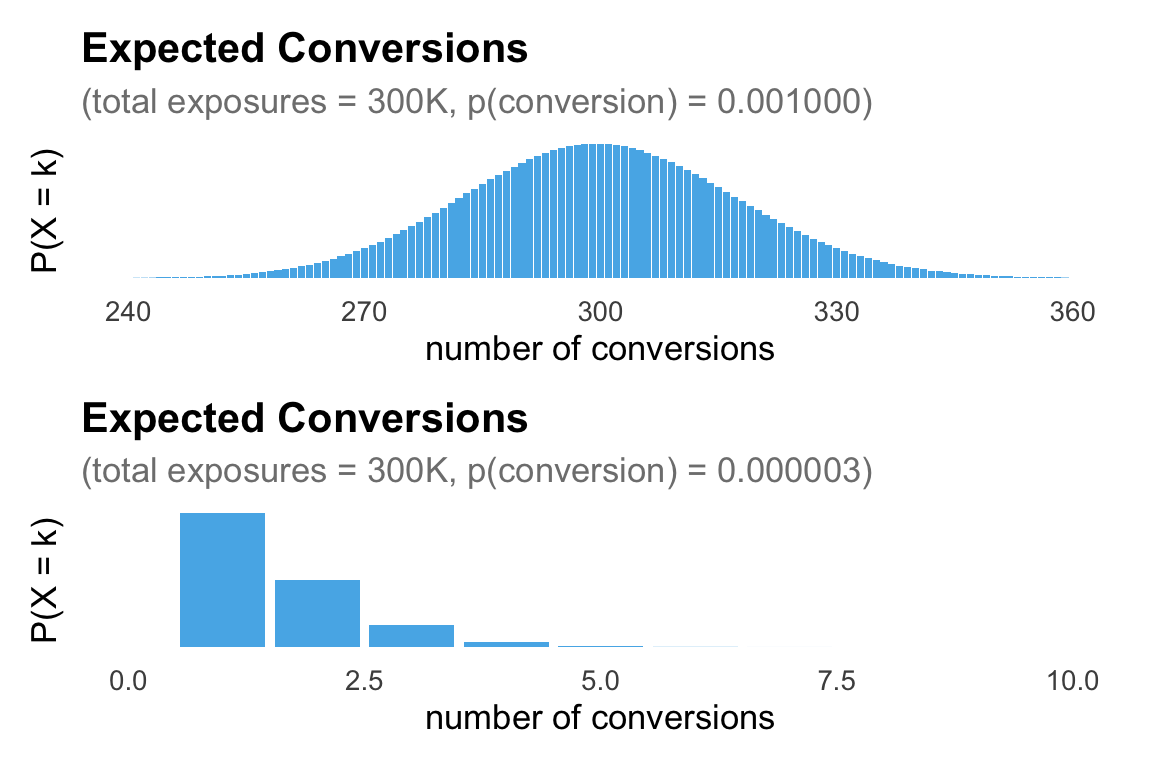
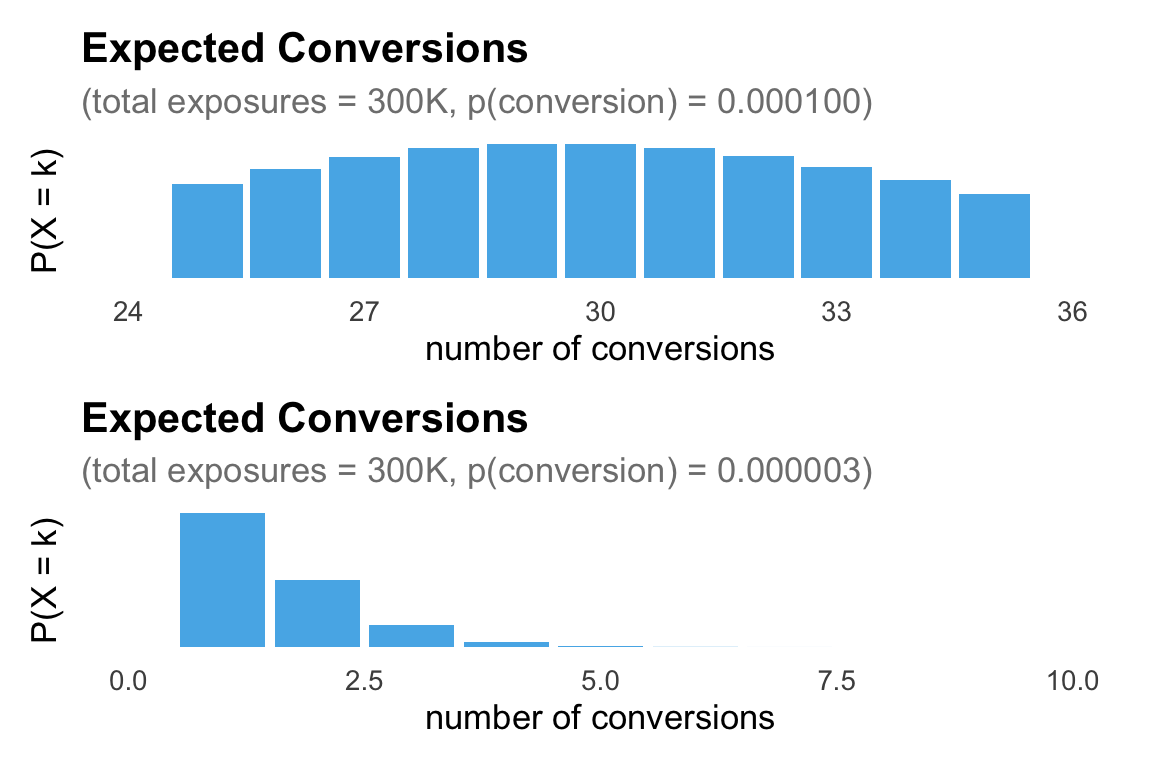
fixed extra 0 typo

diff --git a/docs/posts/2026-06-13-cpa/index.html b/docs/posts/2026-06-13-cpa/index.html
@@ -407,7 +407,7 @@ pre > code.sourceCode > span > a:first-child::before { text-decoration: underlin
 </figure>
 </div>
 <p>Say we spent $1,000 per day for 30 days and saw 0 conversions. When we think about CPA as a <strong>cost</strong> we might see the $1,000 in spend per day and 0 conversions and conclude that our CPA is probably higher than $1,000. It’s like the world’s worst store, we walked up to the till each day, paid $1,000, hoped that was more than the price-tag on a conversion, and left disappointed. But, when we think about CPA as a <strong>rate</strong> we see $1,000 worth off exposures <em>every day</em> over 30 days with 0 conversions, a <em>much</em> bleaker picture.</p>
-<p>Framed as a rate, what we saw was 300,000 exposures ($30,000) with 0 conversions. The cost per conversion is likely more than <em>$30,000</em> (not $1,000). If the CPA was $1,000 we should see a conversion every 10,000 exposures (see Figure 1, there’s ~99% chance we’ll get more than 240 conversions at a $1,000 CPA. Whereas at a <em>$30,000</em> CPA, we often see 0 or only a few conversions) or so, but across 300,000 exposures we actually saw 0.</p>
+<p>Framed as a rate, what we saw was 300,000 exposures ($30,000) with 0 conversions. The cost per conversion is likely more than <em>$30,000</em> (not $1,000). If the CPA was $1,000 we should see a conversion every 10,000 exposures (see Figure 1, there’s ~99% chance we’ll get more than 24 conversions at a $1,000 CPA. Whereas at a <em>$30,000</em> CPA, we often see 0 or only a few conversions) or so, but across 300,000 exposures we actually saw 0.</p>
 <div class="cell">
 <details class="code-fold">
 <summary>Code</summary>
@@ -441,7 +441,7 @@ pre > code.sourceCode > span > a:first-child::before { text-decoration: underlin
 <span id="cb1-28"><a href="#cb1-28" aria-hidden="true" tabindex="-1"></a>}</span>
 <span id="cb1-29"><a href="#cb1-29" aria-hidden="true" tabindex="-1"></a></span>
 <span id="cb1-30"><a href="#cb1-30" aria-hidden="true" tabindex="-1"></a><span class="co"># example call</span></span>
-<span id="cb1-31"><a href="#cb1-31" aria-hidden="true" tabindex="-1"></a>x <span class="ot">&lt;-</span> <span class="fu">plot_binomial</span>(<span class="at">n =</span> <span class="dv">300000</span>, <span class="at">p =</span> <span class="dv">1</span><span class="sc">/</span><span class="dv">1000</span>,<span class="dv">240</span>,<span class="dv">360</span>)</span>
+<span id="cb1-31"><a href="#cb1-31" aria-hidden="true" tabindex="-1"></a>x <span class="ot">&lt;-</span> <span class="fu">plot_binomial</span>(<span class="at">n =</span> <span class="dv">300000</span>, <span class="at">p =</span> <span class="dv">1</span><span class="sc">/</span><span class="dv">10000</span>,<span class="dv">24</span>,<span class="dv">36</span>)</span>
 <span id="cb1-32"><a href="#cb1-32" aria-hidden="true" tabindex="-1"></a>y <span class="ot">&lt;-</span> <span class="fu">plot_binomial</span>(<span class="at">n =</span> <span class="dv">300000</span>, <span class="at">p =</span> <span class="dv">1</span><span class="sc">/</span><span class="dv">300000</span>,<span class="dv">0</span>,<span class="dv">10</span>)</span>
 <span id="cb1-33"><a href="#cb1-33" aria-hidden="true" tabindex="-1"></a>x<span class="sc">/</span>y</span></code><button title="Copy to Clipboard" class="code-copy-button"><i class="bi"></i></button></pre></div>
 </details>
@@ -1028,7 +1028,7 @@ AI disclosure
 <span id="cb3-26"><a href="#cb3-26" aria-hidden="true" tabindex="-1"></a></span>
 <span id="cb3-27"><a href="#cb3-27" aria-hidden="true" tabindex="-1"></a>Say we spent \$1,000 per day for 30 days and saw 0 conversions. When we think about CPA as a **cost** we might see the \$1,000 in spend per day and 0 conversions and conclude that our CPA is probably higher than \$1,000. It's like the world's worst store, we walked up to the till each day, paid \$1,000, hoped that was more than the price-tag on a conversion, and left disappointed. But, when we think about CPA as a **rate** we see \$1,000 worth off exposures *every day* over 30 days with 0 conversions, a *much* bleaker picture.</span>
 <span id="cb3-28"><a href="#cb3-28" aria-hidden="true" tabindex="-1"></a></span>
-<span id="cb3-29"><a href="#cb3-29" aria-hidden="true" tabindex="-1"></a>Framed as a rate, what we saw was 300,000 exposures (\$30,000) with 0 conversions. The cost per conversion is likely more than *\$30,000* (not \$1,000). If the CPA was \$1,000 we should see a conversion every 10,000 exposures (see Figure 1, there's ~99% chance we'll get more than 240 conversions at a \$1,000 CPA. Whereas at a *\$30,000* CPA, we often see 0 or only a few conversions) or so, but across 300,000 exposures we actually saw 0.</span>
+<span id="cb3-29"><a href="#cb3-29" aria-hidden="true" tabindex="-1"></a>Framed as a rate, what we saw was 300,000 exposures (\$30,000) with 0 conversions. The cost per conversion is likely more than *\$30,000* (not \$1,000). If the CPA was \$1,000 we should see a conversion every 10,000 exposures (see Figure 1, there's ~99% chance we'll get more than 24 conversions at a \$1,000 CPA. Whereas at a *\$30,000* CPA, we often see 0 or only a few conversions) or so, but across 300,000 exposures we actually saw 0.</span>
 <span id="cb3-30"><a href="#cb3-30" aria-hidden="true" tabindex="-1"></a></span>
 <span id="cb3-33"><a href="#cb3-33" aria-hidden="true" tabindex="-1"></a><span class="in">```{r}</span></span>
 <span id="cb3-34"><a href="#cb3-34" aria-hidden="true" tabindex="-1"></a><span class="co">#| label: fig-binomial-1</span></span>
@@ -1067,7 +1067,7 @@ AI disclosure
 <span id="cb3-67"><a href="#cb3-67" aria-hidden="true" tabindex="-1"></a>}</span>
 <span id="cb3-68"><a href="#cb3-68" aria-hidden="true" tabindex="-1"></a></span>
 <span id="cb3-69"><a href="#cb3-69" aria-hidden="true" tabindex="-1"></a><span class="co"># example call</span></span>
-<span id="cb3-70"><a href="#cb3-70" aria-hidden="true" tabindex="-1"></a>x <span class="ot">&lt;-</span> <span class="fu">plot_binomial</span>(<span class="at">n =</span> <span class="dv">300000</span>, <span class="at">p =</span> <span class="dv">1</span><span class="sc">/</span><span class="dv">1000</span>,<span class="dv">240</span>,<span class="dv">360</span>)</span>
+<span id="cb3-70"><a href="#cb3-70" aria-hidden="true" tabindex="-1"></a>x <span class="ot">&lt;-</span> <span class="fu">plot_binomial</span>(<span class="at">n =</span> <span class="dv">300000</span>, <span class="at">p =</span> <span class="dv">1</span><span class="sc">/</span><span class="dv">10000</span>,<span class="dv">24</span>,<span class="dv">36</span>)</span>
 <span id="cb3-71"><a href="#cb3-71" aria-hidden="true" tabindex="-1"></a>y <span class="ot">&lt;-</span> <span class="fu">plot_binomial</span>(<span class="at">n =</span> <span class="dv">300000</span>, <span class="at">p =</span> <span class="dv">1</span><span class="sc">/</span><span class="dv">300000</span>,<span class="dv">0</span>,<span class="dv">10</span>)</span>
 <span id="cb3-72"><a href="#cb3-72" aria-hidden="true" tabindex="-1"></a>x<span class="sc">/</span>y</span>
 <span id="cb3-73"><a href="#cb3-73" aria-hidden="true" tabindex="-1"></a><span class="in">```</span></span>

diff --git a/docs/index.html b/docs/index.html
@@ -416,7 +416,7 @@ window.Quarto = {
 
 <div class="quarto-listing quarto-listing-container-default" id="listing-listing">
 <div class="list quarto-listing-default">
-<div class="quarto-post image-right" data-index="0" data-categories="bWFya2V0aW5nJTJDbWVhc3VyZW1lbnQ=" data-listing-date-sort="1781334000000" data-listing-file-modified-sort="1782793692007" data-listing-date-modified-sort="NaN" data-listing-reading-time-sort="5" data-listing-word-count-sort="979">
+<div class="quarto-post image-right" data-index="0" data-categories="bWFya2V0aW5nJTJDbWVhc3VyZW1lbnQ=" data-listing-date-sort="1781334000000" data-listing-file-modified-sort="1782837090760" data-listing-date-modified-sort="NaN" data-listing-reading-time-sort="5" data-listing-word-count-sort="979">
 <div class="thumbnail"><a href="./posts/2026-06-13-cpa/index.html" class="no-external">
 
 <p class="card-img-top"><img src="posts/2026-06-13-cpa/costperegg.png"  class="thumbnail-image card-img"/></p>